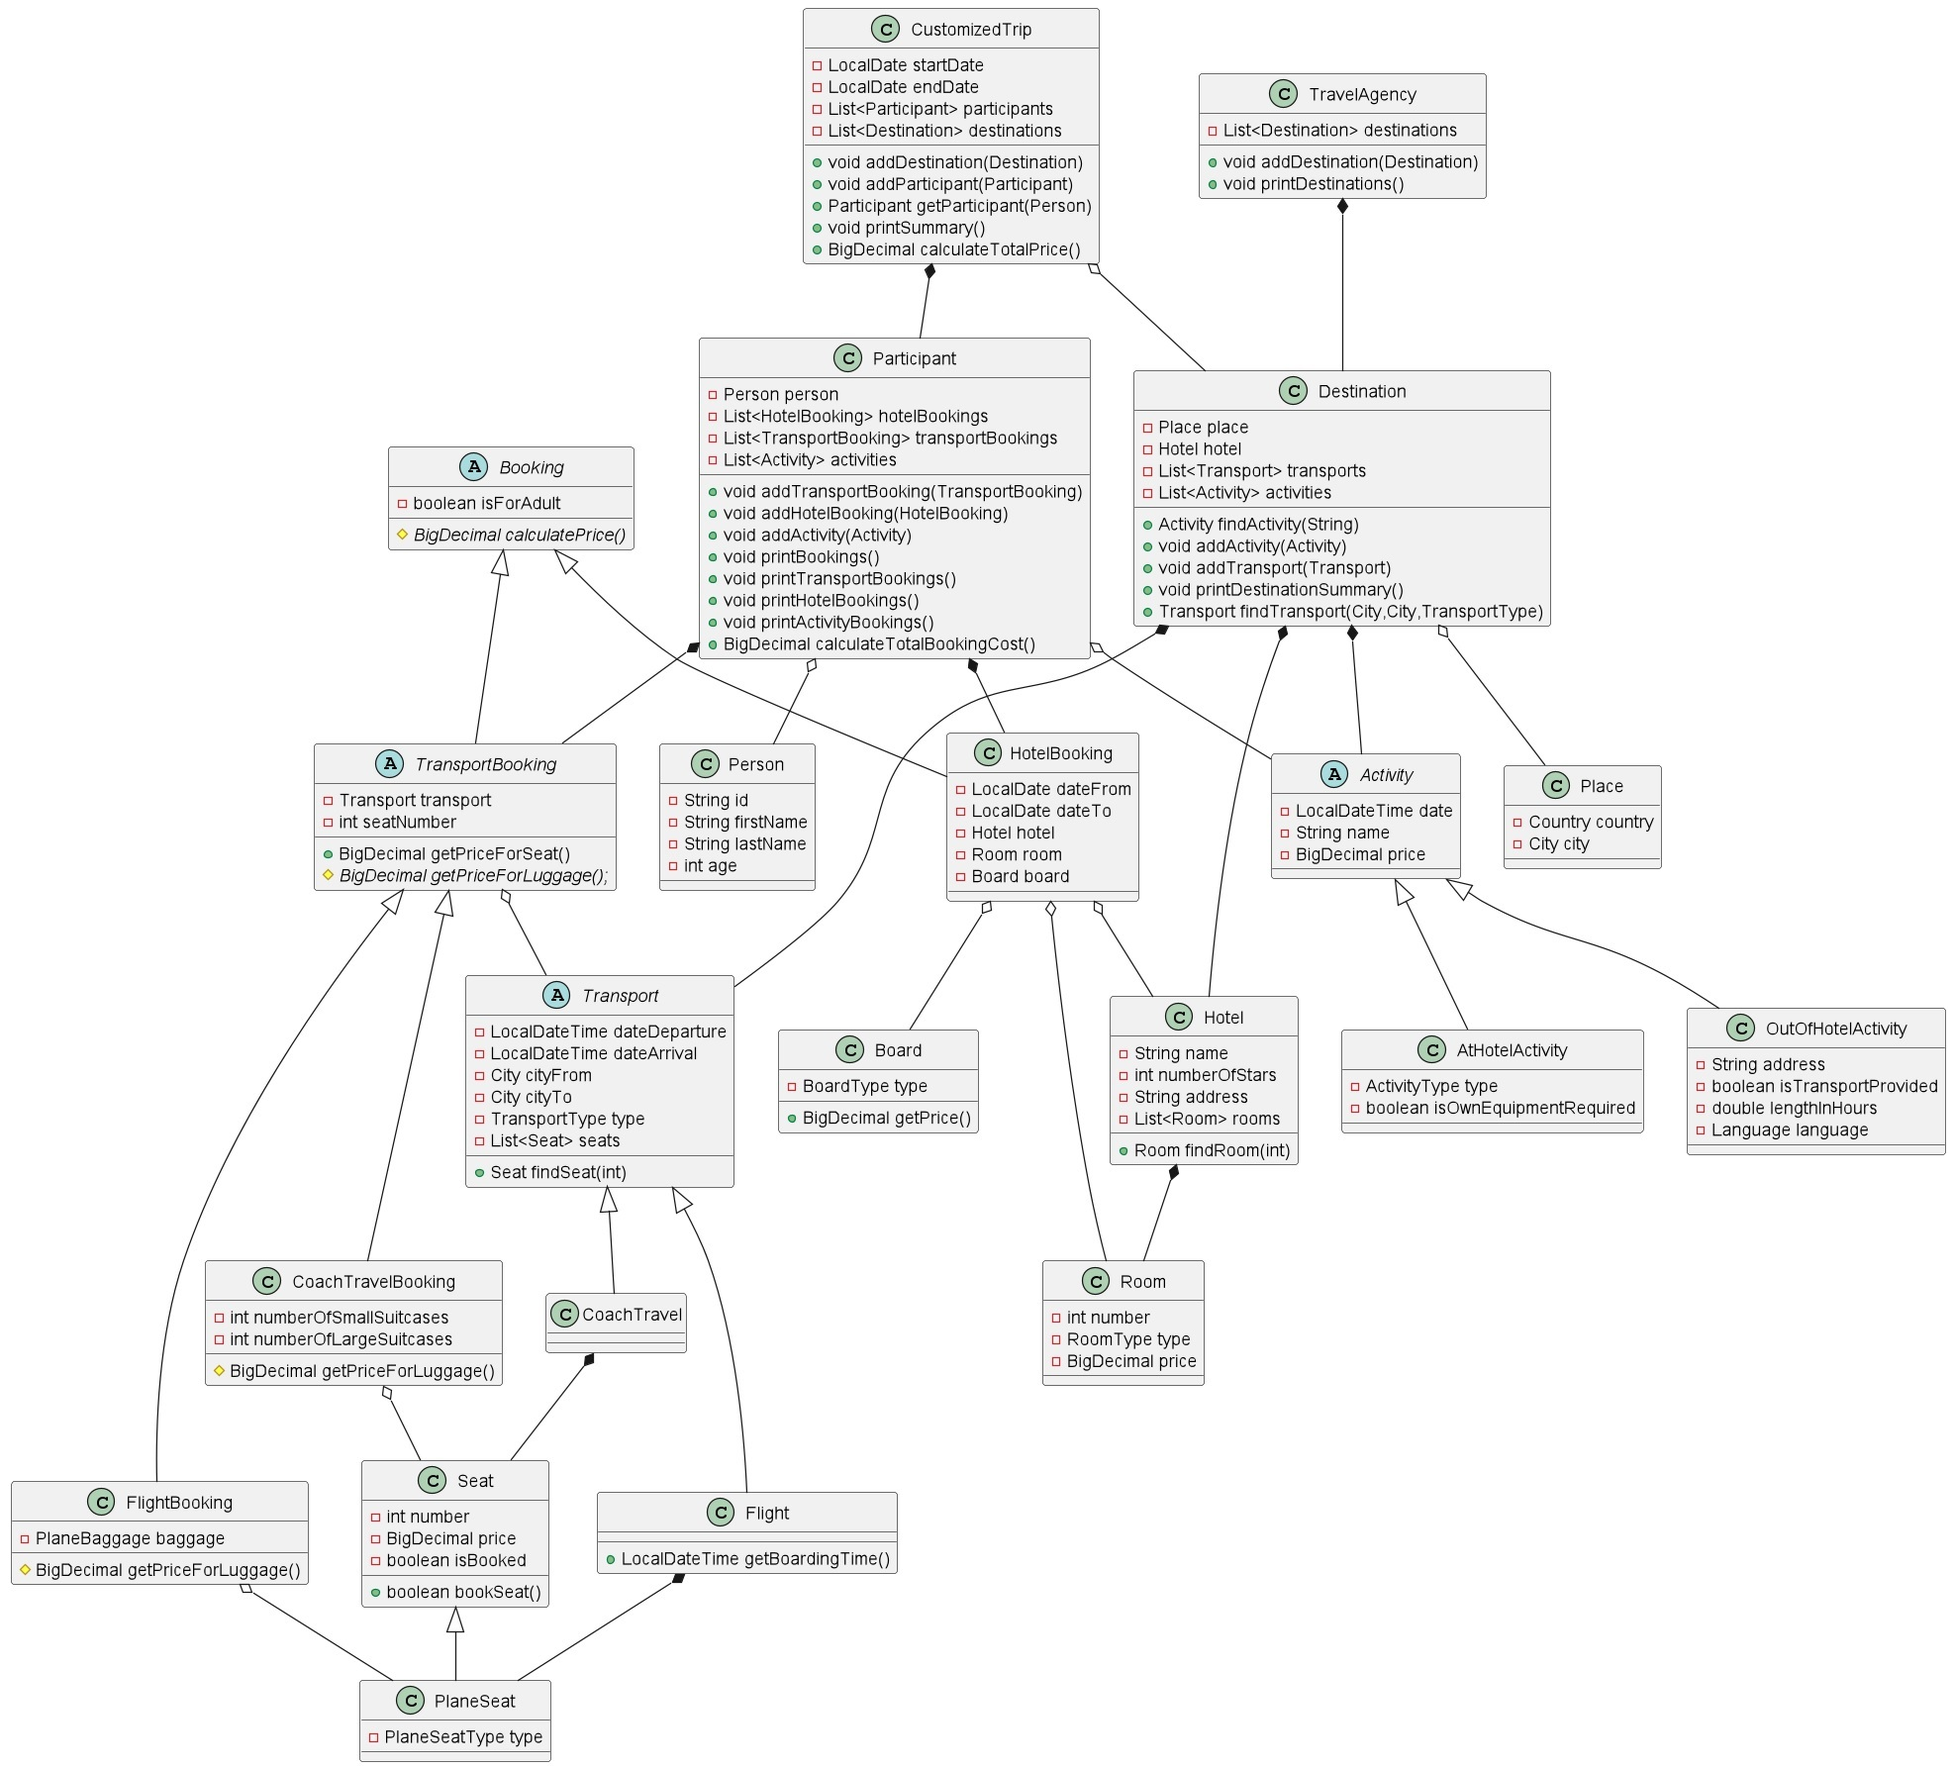
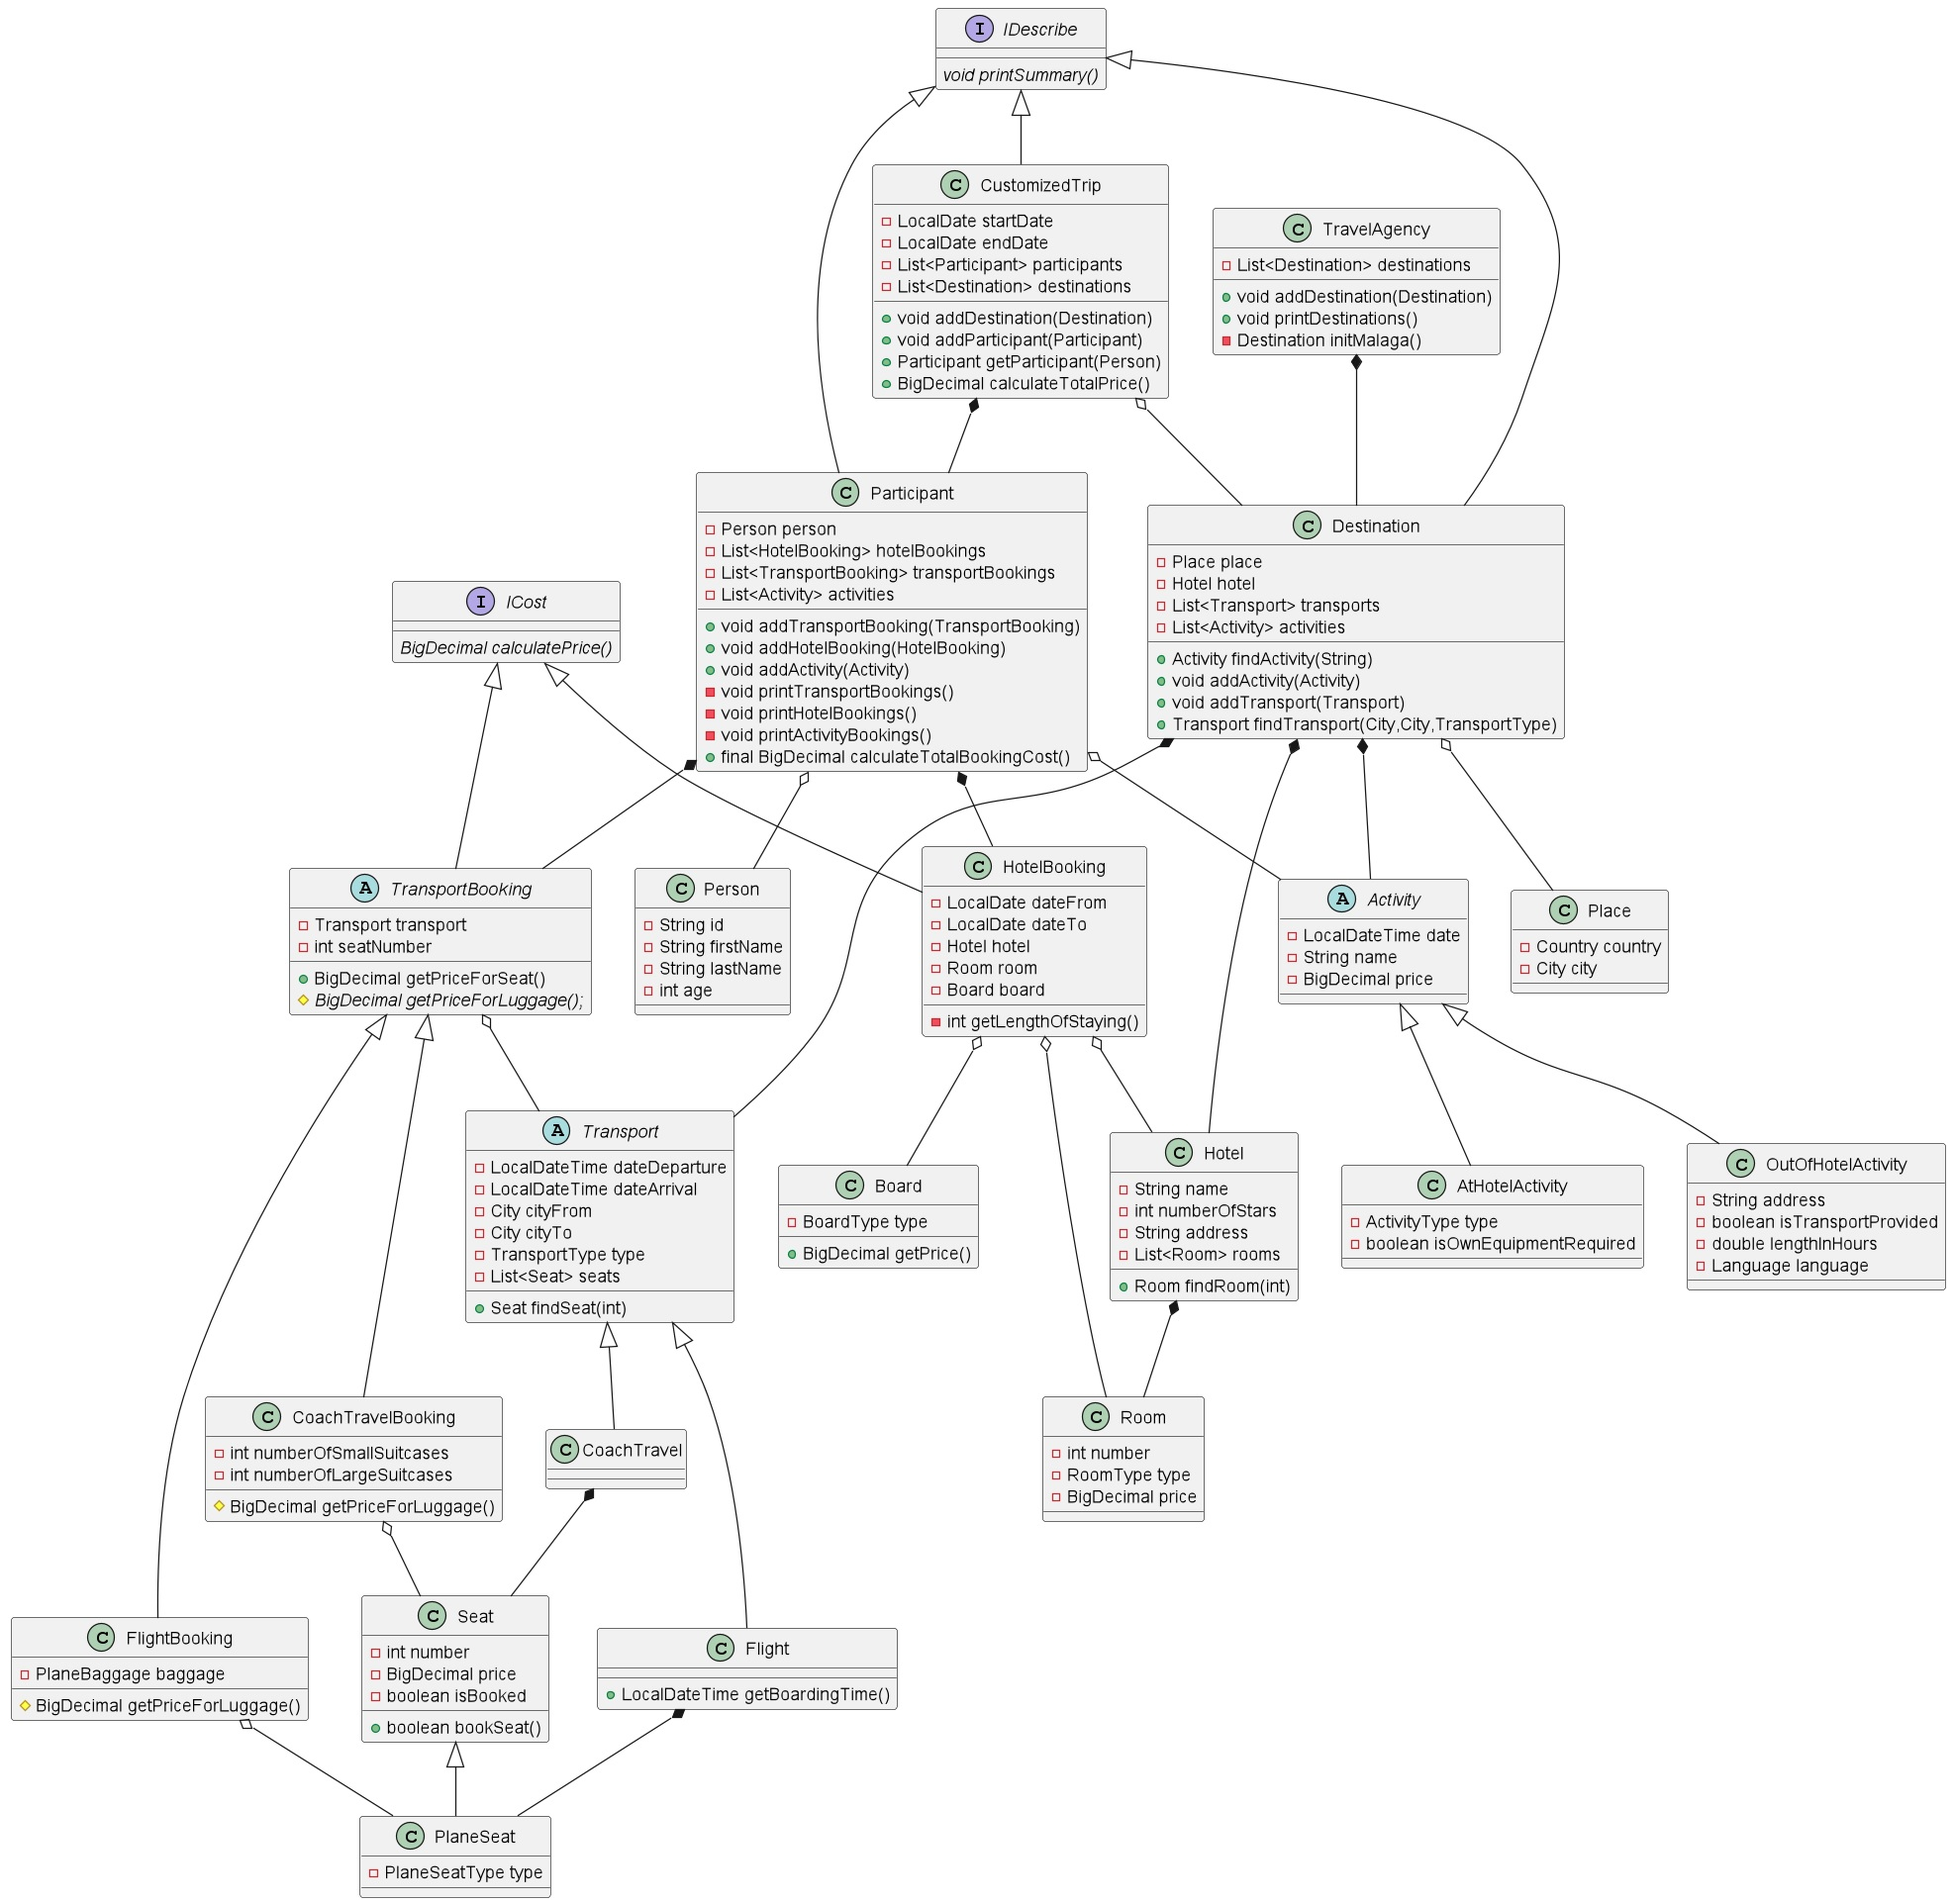
Added IDescribe interface to print summary

diff --git a/src/main/java/trip/CustomizedTrip.java b/src/main/java/trip/CustomizedTrip.java
@@ -1,4 +1,7 @@
+package trip;
+
 import destination.Destination;
+import interfaces.IDescribe;
 import utils.DateFormat;
 
 import java.math.BigDecimal;
@@ -7,12 +10,11 @@ import java.util.ArrayList;
 import java.util.List;
 import java.util.stream.Collectors;
 
-public class CustomizedTrip {
+public class CustomizedTrip implements IDescribe {
     private LocalDate startDate;
     private LocalDate endDate;
     private List<Participant> participants;
     private List<Destination> destinations;
-
 
     public CustomizedTrip() {
     }
@@ -26,23 +28,23 @@ public class CustomizedTrip {
     }
 
     public void addDestination(Destination destination) {
-        if(destinations == null){
+        if (destinations == null) {
             destinations = new ArrayList<>();
         }
         destinations.add(destination);
     }
 
     public void addParticipant(Participant person) {
-        if(participants == null){
+        if (participants == null) {
             participants = new ArrayList<>();
         }
         participants.add(person);
     }
 
-    public Participant getParticipant(Person person){
+    public Participant getParticipant(Person person) {
         return participants
                 .stream()
-                .filter(p->p.getPerson().equals(person))
+                .filter(p -> p.getPerson().equals(person))
                 .collect(Collectors.toList())
                 .get(0);
     }
@@ -53,11 +55,11 @@ public class CustomizedTrip {
                 DateFormat.format(startDate), DateFormat.format(endDate));
         System.out.format("TOTAL COST: € %,.2f\n", calculateTotalPrice());
         System.out.println("\nPARTICIPANTS\n---------------------------");
-        participants.stream().map(p->p.getPerson()).forEach(System.out::println);
+        participants.stream().map(p -> p.getPerson()).forEach(System.out::println);
         System.out.println("\nDESTINATIONS\n---------------------------");
         destinations.stream().forEach(System.out::println);
         System.out.println("\nBOOKINGS\n---------------------------");
-        participants.stream().forEach(Participant::printBookings);
+        participants.stream().forEach(Participant::printSummary);
     }
 
     public BigDecimal calculateTotalPrice() {

diff --git a/src/main/java/trip/Participant.java b/src/main/java/trip/Participant.java
@@ -1,13 +1,16 @@
-import destination.activitiy.Activity;
+package trip;
+
 import bookings.HotelBooking;
 import bookings.TransportBooking;
+import destination.activitiy.Activity;
+import interfaces.IDescribe;
 
 import java.math.BigDecimal;
 import java.util.ArrayList;
 import java.util.List;
 import java.util.Objects;
 
-public class Participant {
+public class Participant implements IDescribe {
     private Person person;
     private List<HotelBooking> hotelBookings;
     private List<TransportBooking> transportBookings;
@@ -48,7 +51,8 @@ public class Participant {
         return person;
     }
 
-    public void printBookings() {
+    @Override
+    public void printSummary() {
         System.out.format("%s %s\n", person.getFirstName().toUpperCase(), person.getLastName().toUpperCase());
         printTransportBookings();
         printHotelBookings();
@@ -56,22 +60,22 @@ public class Participant {
         System.out.println();
     }
 
-    public void printTransportBookings() {
+    private void printTransportBookings() {
         System.out.println(" * Transport bookings:");
         transportBookings.forEach(System.out::println);
     }
 
-    public void printHotelBookings() {
+    private void printHotelBookings() {
         System.out.println(" * Hotel bookings:");
         hotelBookings.forEach(System.out::println);
     }
 
-    public void printActivityBookings() {
+    private void printActivityBookings() {
         System.out.println(" * Activity bookings:");
         activities.forEach(System.out::println);
     }
 
-    public BigDecimal calculateTotalBookingCost() {
+    public final BigDecimal calculateTotalBookingCost() {
         BigDecimal hotelBookingsCost = hotelBookings
                 .stream()
                 .map(HotelBooking::calculatePrice)
@@ -136,4 +140,5 @@ public class Participant {
     public int hashCode() {
         return Objects.hash(person, hotelBookings, transportBookings, activities);
     }
+
 }

diff --git a/src/main/java/bookings/HotelBooking.java b/src/main/java/bookings/HotelBooking.java
@@ -4,6 +4,7 @@ import enums.BoardType;
 import hotel.Board;
 import hotel.Hotel;
 import hotel.Room;
+import interfaces.ICost;
 import utils.DateFormat;
 
 import java.math.BigDecimal;
@@ -41,7 +42,7 @@ public class HotelBooking implements ICost {
     }
 
     @Override
-    public BigDecimal calculatePrice() {
+    public final BigDecimal calculatePrice() {
         BigDecimal totalPrice = (room.getPrice().add(board.getPrice())).multiply(new BigDecimal(getLengthOfStaying()));
         return isForAdult ? totalPrice : totalPrice.divide(new BigDecimal(2));
     }
@@ -94,6 +95,7 @@ public class HotelBooking implements ICost {
         isForAdult = forAdult;
     }
 
+    @Override
     public String toString() {
         return String.format("Hotel: %s from %s to %s Is for adult? %b %s Board: %s Total price: %.2f",
                 hotel.getName(),

diff --git a/src/main/java/destination/Destination.java b/src/main/java/destination/Destination.java
@@ -4,6 +4,7 @@ import destination.activitiy.Activity;
 import enums.City;
 import enums.TransportType;
 import hotel.Hotel;
+import interfaces.IDescribe;
 import transport.Transport;
 
 import java.util.ArrayList;
@@ -11,7 +12,7 @@ import java.util.List;
 import java.util.Objects;
 import java.util.stream.Collectors;
 
-public class Destination {
+public class Destination implements IDescribe {
     private Place place;
     private Hotel hotel;
     private List<Transport> transports;
@@ -50,7 +51,8 @@ public class Destination {
         transports.add(transport);
     }
 
-    public void printDestinationSummary() {
+    @Override
+    public void printSummary() {
         System.out.format("--> %s\n", this);
         if (transports.size() > 0) {
             System.out.format(" * Available TRANSPORTS to %s and BACK:\n", place.getCity());

diff --git a/src/main/java/trip/TravelAgency.java b/src/main/java/trip/TravelAgency.java
@@ -1,3 +1,5 @@
+package trip;
+
 import destination.Destination;
 import destination.Place;
 import destination.activitiy.Activity;
@@ -112,7 +114,7 @@ public class TravelAgency {
     }
 
     public void addDestination(Destination destination) {
-        if (destinations == null){
+        if (destinations == null) {
             destinations = new ArrayList<>();
         }
         destinations.add(destination);
@@ -120,7 +122,7 @@ public class TravelAgency {
 
     public void printDestinations() {
         System.out.println("TRAVEL AGENCY - Available Destinations:");
-        destinations.forEach(Destination::printDestinationSummary);
+        destinations.forEach(Destination::printSummary);
         System.out.println();
     }
 

diff --git a/src/main/java/bookings/CoachTravelBooking.java b/src/main/java/bookings/CoachTravelBooking.java
@@ -24,7 +24,7 @@ public class CoachTravelBooking extends TransportBooking {
         this.numberOfLargeSuitcases = numberOfLargeSuitcases;
     }
 
-    protected BigDecimal getPriceForLuggage() {
+    protected final BigDecimal getPriceForLuggage() {
         BigDecimal priceForLargeSuitcase = new BigDecimal(PRICE_FOR_LARGE_SUITCASE);
         BigDecimal priceForSmallSuitcase = new BigDecimal(PRICE_FOR_SMALL_SUITCASE);
         return priceForLargeSuitcase.multiply(new BigDecimal(numberOfLargeSuitcases))

diff --git a/src/main/java/bookings/TransportBooking.java b/src/main/java/bookings/TransportBooking.java
@@ -1,5 +1,6 @@
 package bookings;
 
+import interfaces.ICost;
 import transport.Seat;
 import transport.Transport;
 
@@ -27,7 +28,7 @@ public abstract class TransportBooking implements ICost {
     protected abstract BigDecimal getPriceForLuggage();
 
     @Override
-    public BigDecimal calculatePrice() {
+    public final BigDecimal calculatePrice() {
         return getPriceForSeat().add(getPriceForLuggage());
     }
 

diff --git a/src/main/java/utils/DateFormat.java b/src/main/java/utils/DateFormat.java
@@ -4,7 +4,10 @@ import java.time.LocalDate;
 import java.time.LocalDateTime;
 import java.time.format.DateTimeFormatter;
 
-public class DateFormat {
+public final class DateFormat {
+    private DateFormat(){
+    }
+
     public static String format(LocalDateTime t){
         DateTimeFormatter formatter = DateTimeFormatter.ofPattern("yyyy-MM-dd HH:mm");
         return t.format(formatter);

diff --git a/src/main/java/bookings/FlightBooking.java b/src/main/java/bookings/FlightBooking.java
@@ -20,7 +20,7 @@ public class FlightBooking extends TransportBooking {
         this.baggage = PlaneBaggage.CHECKED;
     }
 
-    protected BigDecimal getPriceForLuggage() {
+    protected final BigDecimal getPriceForLuggage() {
         switch (baggage) {
             case HAND: {
                 return new BigDecimal(PRICE_FOR_HAND_BAG);

diff --git a/src/main/java/TripBooking.java b/src/main/java/TripBooking.java
@@ -7,6 +7,10 @@ import bookings.HotelBooking;
 import bookings.CoachTravelBooking;
 import bookings.FlightBooking;
 import transport.Transport;
+import trip.CustomizedTrip;
+import trip.Participant;
+import trip.Person;
+import trip.TravelAgency;
 
 import java.time.LocalDate;
 

diff --git a/src/main/java/interfaces/IDescribe.java b/src/main/java/interfaces/IDescribe.java
@@ -1,0 +1,5 @@
+package interfaces;
+
+public interface IDescribe {
+    void printSummary();
+}

diff --git a/src/main/java/interfaces/ICost.java b/src/main/java/interfaces/ICost.java
@@ -1,4 +1,4 @@
-package bookings;
+package interfaces;
 
 import java.math.BigDecimal;
 
